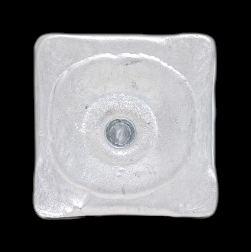
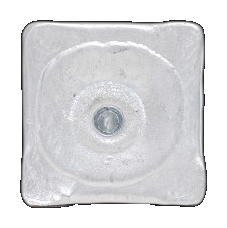
Update zinc anode images and CSS for improved product presentation. Replace photo layout with a grid system for better visual interaction and enhance hover effects for the 2.5 lb Sport Zinc Anode.

diff --git a/css/base.css b/css/base.css
@@ -723,16 +723,26 @@
       box-shadow: inset 0 0 0 1px rgba(255,255,255,.06), inset 0 -48px 70px rgba(0,0,0,.18);
     }
     .zinc-photo img { width: 100%; max-height: 204px; object-fit: contain; filter: drop-shadow(0 18px 26px rgba(0,0,0,.44)); }
-    .zinc-photo-pair {
-      display: flex;
-      align-items: center;
-      justify-content: center;
-      gap: 14px;
+    .zinc-photo-swap {
+      display: grid;
+      place-items: center;
     }
-    .zinc-photo-pair img {
-      width: auto;
-      max-width: calc(50% - 7px);
+    .zinc-photo-swap img {
+      grid-area: 1 / 1;
+      width: 100%;
       max-height: 204px;
+      object-fit: contain;
+      transition: opacity .25s ease;
+    }
+    .zinc-photo-swap .zinc-photo-hover {
+      opacity: 0;
+      pointer-events: none;
+    }
+    .zinc-card:hover .zinc-photo-swap .zinc-photo-primary {
+      opacity: 0;
+    }
+    .zinc-card:hover .zinc-photo-swap .zinc-photo-hover {
+      opacity: 1;
     }
     .zinc-card-body { padding: 22px; display: flex; flex-direction: column; flex: 1; }
     .zinc-card-body h3 { color: var(--navy); font-size: 1.5rem; }

diff --git a/products/zinc-anodes.html b/products/zinc-anodes.html
@@ -175,9 +175,9 @@
 <div class="zinc-card-body"><h3>4.5 lb Round Anode</h3><p>Round spin-on anode — Ladner Traps' best-selling commercial zinc option.</p><div class="zinc-specs zinc-specs-single"><span>4.5 lb</span></div></div>
 </article>
 <article class="zinc-card">
-<div class="zinc-photo zinc-photo-pair">
-<img alt="2.5 lb sport zinc anode front view with Canada marking" src="../assets/2.5lb-sport-zinc-anode.png"/>
-<img alt="2.5 lb sport zinc anode top view with mounting hole" src="../assets/2.5lb-sport-zinc-anode-top.png"/>
+<div class="zinc-photo zinc-photo-swap">
+<img class="zinc-photo-primary" alt="2.5 lb sport zinc anode front view with Canada marking" src="../assets/2.5lb-sport-zinc-anode.png"/>
+<img class="zinc-photo-hover" alt="2.5 lb sport zinc anode top view with mounting hole" src="../assets/2.5lb-sport-zinc-anode-top.png"/>
 </div>
 <div class="zinc-card-body"><h3>2.5 lb Sport Zinc Anode</h3><p>Square sport anode with ½&quot; bolt fitting for stainless sport crab and prawn traps.</p><div class="zinc-specs zinc-specs-single"><span>2.5 lb</span></div></div>
 </article>
